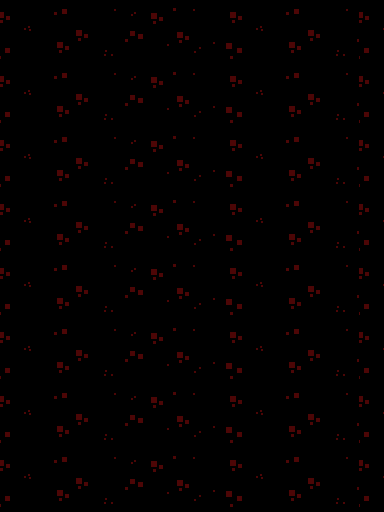
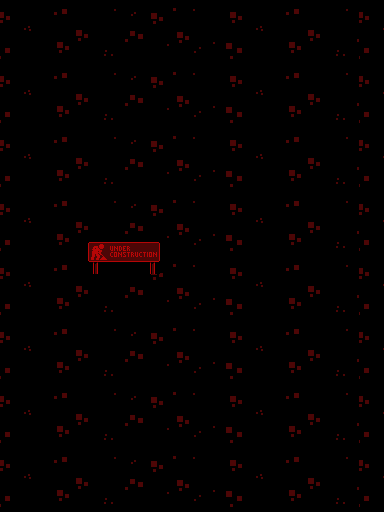
Added "under construction" sign to tower

Changed region(s): [[0.2188, 0.4688, 0.4375, 0.5312]]

diff --git a/assets/images/Level-1/Tower/Back/Level-1-Tower-Back-1.c b/assets/images/Level-1/Tower/Back/Level-1-Tower-Back-1.c
@@ -8,7 +8,7 @@
 //	External tile file: (null).
 //	Total size: 6144 = 6144
 //
-//	Time-stamp: 2015-12-29, 15:27:19
+//	Time-stamp: 2016-01-12, 22:05:15
 //	Exported by Cearn's GBA Image Transmogrifier, v0.8.6
 //	( http://www.coranac.com/projects/#grit )
 //
@@ -219,35 +219,35 @@ const unsigned short Level_1_Tower_Back_1Map[3072] __attribute__((aligned(4)))=
 	0x0000,0x0000,0x0000,0x0000,0x301D,0x0020,0x0021,0x0022,
 	0x0000,0x0000,0x0000,0x0000,0x0027,0x0000,0x0000,0x0000,
 	0x0028,0x0029,0x0000,0x0000,0x0000,0x0000,0x0000,0x002A,
-	0x1020,0x0000,0x0000,0x0000,0x0000,0x002B,0x002C,0x0000,
-	0x0000,0x0000,0x0000,0x0000,0x0000,0x0000,0x0000,0x0000,
+	0x1020,0x0000,0x0000,0x0032,0x0033,0x0034,0x0035,0x0036,
+	0x0037,0x0038,0x0038,0x0039,0x0000,0x0000,0x0000,0x0000,
 	0x002D,0x0022,0x0000,0x0000,0x002E,0x0028,0x0029,0x0000,
 
 	0x0000,0x0000,0x0000,0x0000,0x002A,0x1020,0x0000,0x0000,
 	0x0000,0x0000,0x002B,0x002C,0x0000,0x002F,0x0030,0x0000,
 	0x3007,0x0000,0x0000,0x0000,0x0000,0x0000,0x0000,0x0000,
-	0x0000,0x0000,0x0000,0x0000,0x0000,0x0000,0x0000,0x0000,
-	0x0000,0x0000,0x0000,0x0000,0x0000,0x0000,0x0000,0x0000,
+	0x0000,0x0000,0x0000,0x003A,0x003B,0x003C,0x003D,0x003E,
+	0x003F,0x0040,0x0041,0x0042,0x0000,0x0000,0x0000,0x0000,
 	0x0000,0x0000,0x0000,0x0000,0x0031,0x3007,0x0000,0x0000,
 	0x0000,0x0000,0x0000,0x0000,0x0000,0x0000,0x0000,0x0000,
 	0x0000,0x0000,0x0000,0x0000,0x1007,0x0000,0x0000,0x0000,
 
 	0x0000,0x0000,0x0000,0x0000,0x0000,0x0000,0x0000,0x0000,
-	0x0000,0x0000,0x0000,0x0000,0x0000,0x0000,0x0000,0x0000,
-	0x0000,0x0000,0x0000,0x0000,0x0000,0x0000,0x0000,0x0000,
+	0x0000,0x0000,0x0000,0x0043,0x0044,0x0045,0x0046,0x0047,
+	0x0048,0x0049,0x004A,0x004B,0x0000,0x0000,0x0000,0x0000,
 	0x0000,0x0000,0x0000,0x0000,0x0000,0x0000,0x0000,0x0000,
 	0x0000,0x0000,0x0000,0x0000,0x0000,0x0000,0x0000,0x0000,
 	0x0000,0x0000,0x0000,0x0000,0x0000,0x0000,0x0000,0x0000,
 	0x0001,0x0000,0x0000,0x0000,0x0000,0x0000,0x0002,0x0003,
-	0x0004,0x0000,0x0000,0x0000,0x0000,0x0000,0x0005,0x0000,
+	0x0004,0x0000,0x0000,0x004C,0x004D,0x0000,0x0000,0x0000,
 
-	0x0006,0x0000,0x0007,0x0008,0x0000,0x0009,0x0000,0x0000,
+	0x0000,0x0000,0x004E,0x004F,0x0000,0x0009,0x0000,0x0000,
 	0x000A,0x0000,0x0000,0x0000,0x000B,0x0001,0x0000,0x0000,
 	0x0000,0x0000,0x0000,0x0002,0x0003,0x0004,0x0000,0x0000,
 	0x0000,0x0000,0x0000,0x0005,0x000C,0x000D,0x0000,0x0000,
 	0x000E,0x300B,0x0000,0x0000,0x0000,0x0000,0x0000,0x0000,
-	0x0000,0x0000,0x0000,0x0000,0x0000,0x0000,0x0000,0x0000,
-	0x0000,0x0000,0x1007,0x000F,0x0010,0x0000,0x0000,0x0000,
+	0x0000,0x0000,0x0000,0x0050,0x0051,0x0000,0x0000,0x0000,
+	0x0000,0x0000,0x0052,0x0053,0x0010,0x0000,0x0000,0x0000,
 	0x0000,0x0000,0x0000,0x0000,0x0011,0x000E,0x300B,0x0000,
 
 	0x0000,0x0000,0x0000,0x0000,0x0000,0x0000,0x0000,0x0000,

diff --git a/assets/images/Level-1/Tower/Back/Level-1-Tower-Back.c b/assets/images/Level-1/Tower/Back/Level-1-Tower-Back.c
@@ -3,17 +3,17 @@
 
 //======================================================================
 //
-//	Level_1_Tower_Back, 8x400@2, 
-//	+ 50 tiles not compressed
-//	Total size: 800 = 800
+//	Level_1_Tower_Back, 8x672@2, 
+//	+ 84 tiles not compressed
+//	Total size: 1344 = 1344
 //
-//	Time-stamp: 2015-12-29, 15:27:19
+//	Time-stamp: 2016-01-12, 22:05:15
 //	Exported by Cearn's GBA Image Transmogrifier, v0.8.6
 //	( http://www.coranac.com/projects/#grit )
 //
 //======================================================================
 
-const unsigned int Level_1_Tower_BackTiles[200] __attribute__((aligned(4)))=
+const unsigned int Level_1_Tower_BackTiles[336] __attribute__((aligned(4)))=
 {
 	0x00000000,0x00000000,0x00000000,0x00000000,0x00000000,0x00000000,0x00550055,0x00550055,
 	0x00000000,0x00000000,0x50005000,0x00005000,0x50000000,0x50005000,0x50015001,0x00000001,
@@ -43,6 +43,25 @@ const unsigned int Level_1_Tower_BackTiles[200] __attribute__((aligned(4)))=
 	0x00005550,0x00000000,0x00000000,0x00000000,0x55005500,0x55005500,0x00005500,0x00000000,
 
 	0x00010001,0x00010001,0x00000001,0x00000000,0x50005000,0x00005000,0x00000000,0x00000000,
+	0x00000000,0x5556AAA8,0x55565556,0xA956A556,0x00000000,0x5555AAAA,0xAA956A55,0xAA9AAA9A,
+	0x00000000,0x5555AAAA,0x55555555,0x65556555,0x00000000,0x5555AAAA,0x55555555,0x99A69966,
+	0x00000000,0x5555AAAA,0x55555555,0x95999A96,0x00000000,0x5555AAAA,0x55555555,0x55595556,
+	0x00000000,0x5555AAAA,0x55555555,0x55555555,0x00000000,0x95552AAA,0x95559555,0x95559555,
+	0xAA566956,0xAA56A956,0xAA56AA56,0x6A566A56,0x55AA6A6A,0x5A9A5AAA,0x569A56AA,0x65AA5A6A,
+	0x65556555,0x55559555,0x65559555,0x65556555,0x99669A66,0x55559966,0xA66566A6,0x66656665,
+	0x95999699,0x55559A96,0x55999A99,0x5959565A,0x55595556,0x55555559,0x9996969A,0x99969696,
+
+	0x55555555,0x55555555,0x55999A59,0x55995599,0x55555555,0x55555555,0x9996A99A,0x99969996,
+	0x95559555,0x95559555,0x96699659,0x96599699,0x5A966A56,0x5A965A96,0xAAA85556,0x08000400,
+	0xA5A995A9,0xAA6AA96A,0xAAAA5555,0x00090004,0x55569555,0x556A555A,0xAAAA5555,0x00000000,
+	0x555566A6,0x55555555,0xAAAA5555,0x00000000,0x55555A99,0x55555555,0xAAAA5555,0x00000000,
+	0x55555996,0x55555555,0xAAAA5555,0x00000000,0x55555A5A,0x55555555,0xAAAA5555,0x00000000,
+	0x5555A996,0x55555555,0xAAAA5555,0x20001000,0x95559659,0x95559555,0x2AAA9555,0x00240010,
+	0x48004800,0x48004800,0x48004800,0x48004800,0x00090009,0x00090009,0x00090009,0x00090009,
+	0x20002000,0x20002000,0x20002000,0x20002000,0x00250025,0x00250025,0x00250025,0x00250025,
+
+	0x48004800,0x00000000,0x00000000,0x00000000,0x00090009,0x00000000,0x00000000,0x00000000,
+	0x20002000,0x00004000,0x00000000,0x00000000,0x00250025,0x40004155,0x00544000,0x00540054,
 };
 
 //}}BLOCK(Level_1_Tower_Back)

diff --git a/source/objects/backgrounds/Level-1/Tower/Level-1-Tower-Back-1.c b/source/objects/backgrounds/Level-1/Tower/Level-1-Tower-Back-1.c
@@ -43,7 +43,7 @@ CharSetROMDef LEVEL_1_TOWER_BACK_1_CH =
     // __ANIMATED_SHARED_COORDINATED: number of chars of a single animation frame (cols * rows)
     // __ANIMATED_MULTI: sum of chars of all animation frames
     // __NOT_ANIMATED: number of chars of whole image
-    50,
+    84,
 
     // allocation type
     __NOT_ANIMATED,
